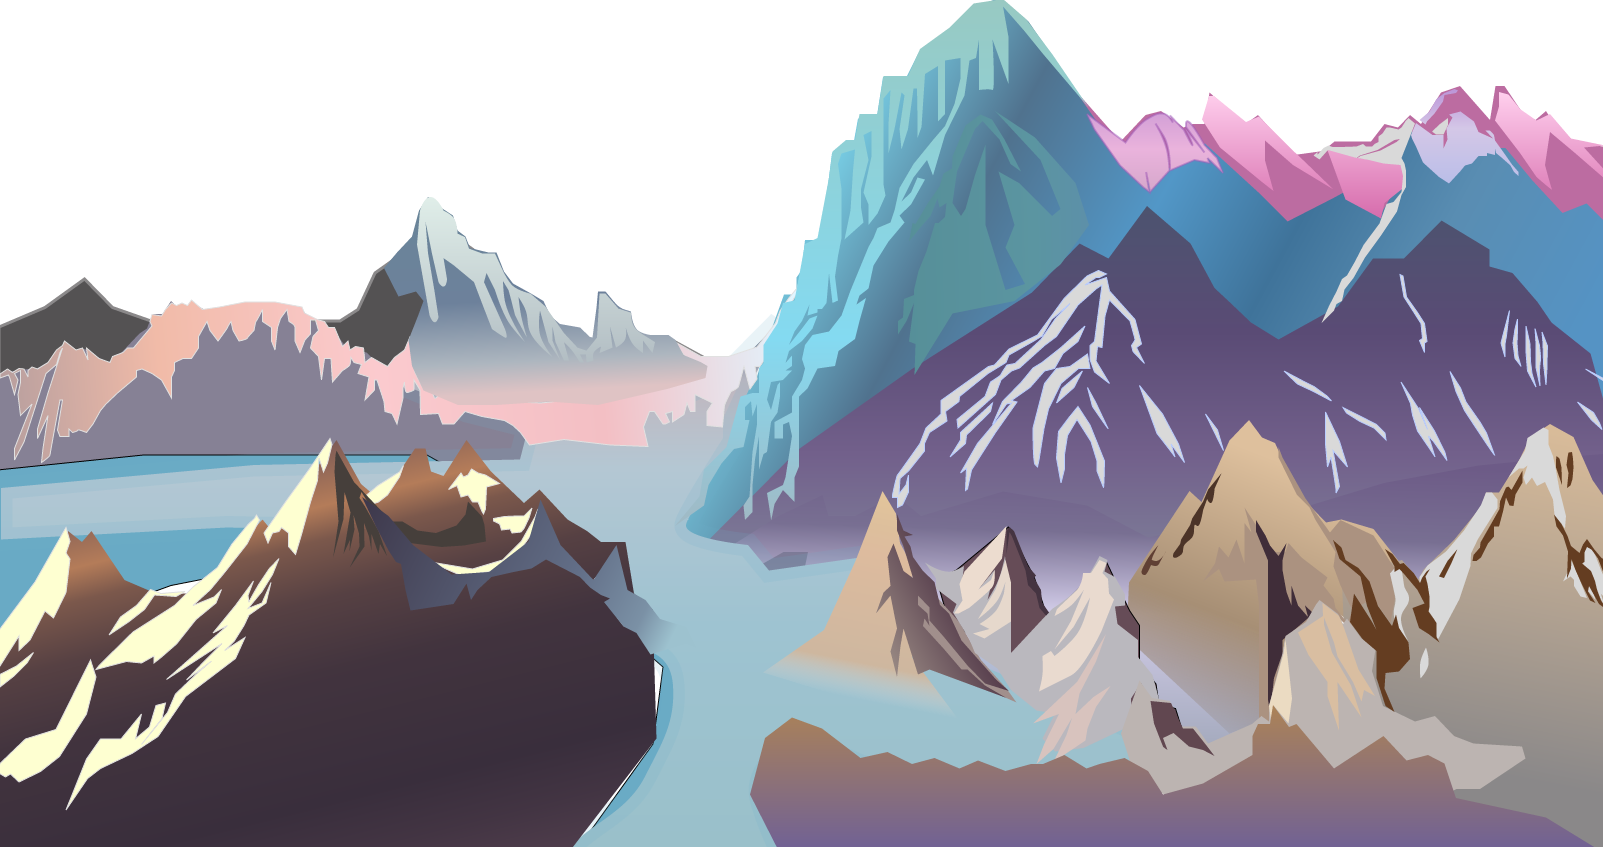
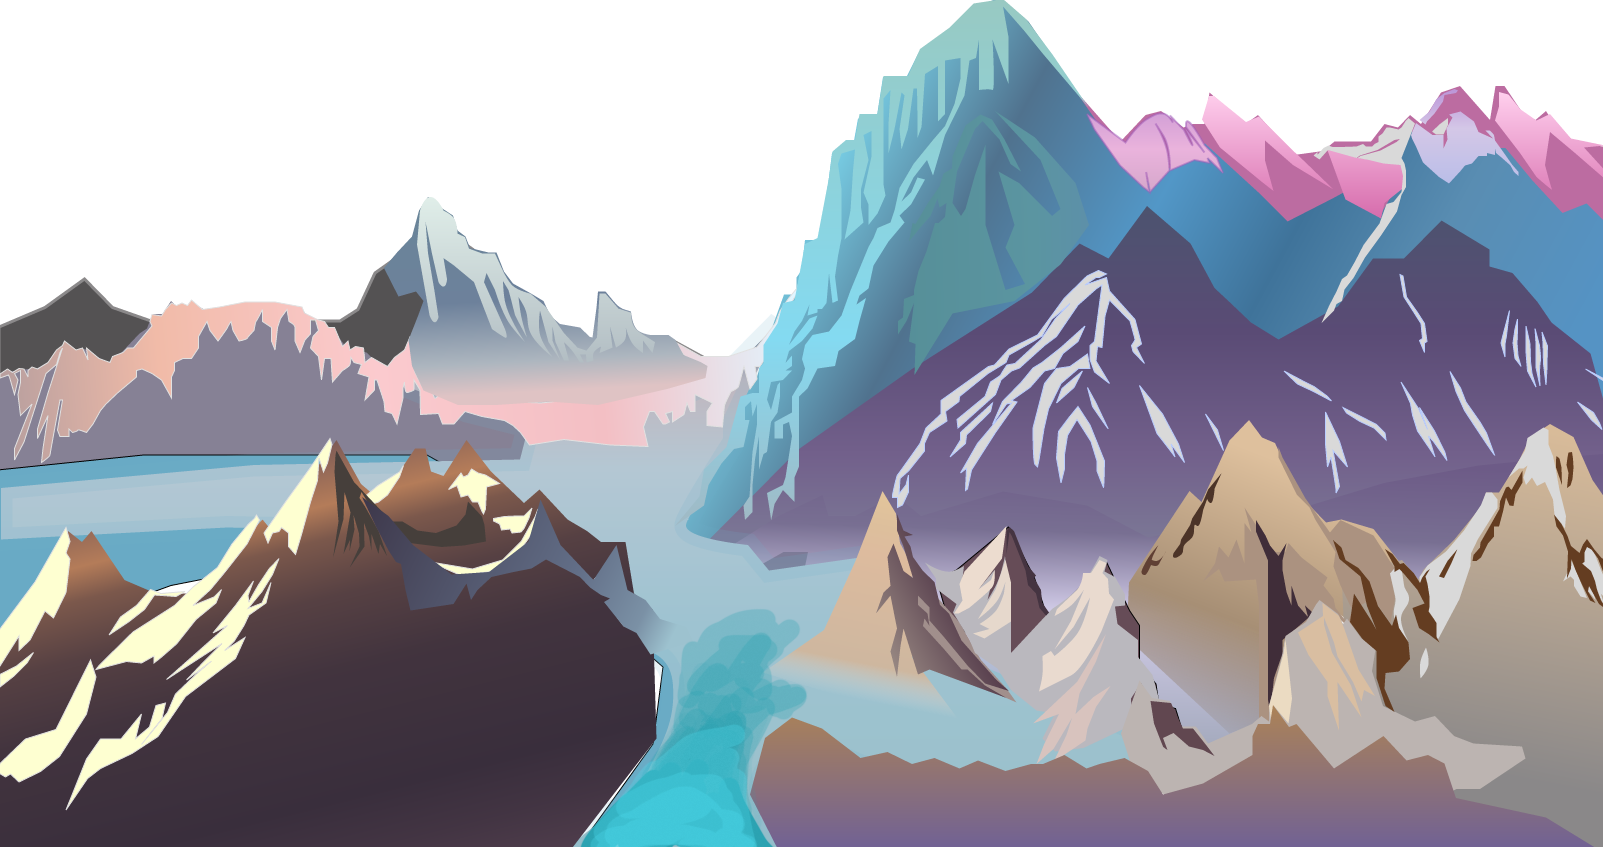
Fix mountain layer z-fighting; add layers 06-08 and observer readout
- FollowEffect: optional `targetBounds` clamps the followed target's position
  before the offset, so a group of followers stops rigidly at a bound
- Hero: camera-following mountain boxes (01/02) bounded so they never slide
  onto fixed layer 03 (stop at observer z 150, min gap 100) - this was the
  flicker at observer z ~220-250
- Unique z for every fixed layer panel (07 behind 08; mirrors 10 behind)
- Add layer-06 (tree), layer-07 (cliff house), layer-08 (waterfall land)
- Observer x/y/z readout label over the canvas
- Updated layer-02/03 artwork

Changed region(s): [[0.3431, 0.706, 0.4991, 1.0]]

diff --git a/src/docs/hero/hero_parallax.ts b/src/docs/hero/hero_parallax.ts
@@ -5,7 +5,7 @@ import { SceneClock } from "../../scene/scene_clock.ts";
 import { HeadTrackingDataProvider } from "../../scene/providers/head_tracking_data_provider.ts";
 import { WebCamDataProvider } from "../../scene/providers/web_cam_data_provider.ts";
 import { P5AssetLoader, type P5Bundler } from "../../scene/p5/p5_asset_loader.ts";
-import {DEFAULT_SCENE_SETTINGS, ELEMENT_TYPES, LOOK_MODES, type CarModifier, type Vector3, type DampingValue, type SceneUnits, type VideoPixels} from "../../scene/types.ts";
+import {DEFAULT_SCENE_SETTINGS, ELEMENT_TYPES, LOOK_MODES, STANDARD_PROJECTION_IDS, type CarModifier, type Vector3, type DampingValue, type SceneUnits, type VideoPixels} from "../../scene/types.ts";
 import { DEFAULT_SKETCH_CONFIG, type SketchConfig } from "../tutorial/sketch_config.ts";
 import type { FaceConfig, P5SketchExtraArgs } from "../tutorial/sketch_engine.types.ts";
 import { WorldSettings } from "../../scene/world_settings.ts";
@@ -331,6 +331,14 @@ export async function heroParallax(
     const mountainBackdropWidth = 4000;
     const mountainBackdropHeight = mountainBackdropWidth * mountainHeight / mountainWidth;
     const mountainBackdropDistance = -2500;
+    // Layers 01/02 follow the camera's z, but layer 03 sits at a fixed world z. Left
+    // unbounded, moving back (+z) slides layer 02 onto layer 03's plane (observer z ~250)
+    // and they z-fight. Bounding the followed camera z stops both following boxes - rigidly,
+    // walls included - at least mountainMinGap behind layer 03.
+    const mountainMinGap = 100;
+    const mountainFollowBounds = {
+        max: { z: mountainBackdropDistance * 0.8 - mountainBackdropDistance * 0.9 - mountainMinGap },
+    };
     world.addPanel({
         id: 'mountain-backdrop-01',
         type: ELEMENT_TYPES.PANEL,
@@ -341,7 +349,7 @@ export async function heroParallax(
         position: { x: 0, y: 0, z: mountainBackdropDistance },
         texture: { path: appAssetPath('img/hero/layer-01.png'), width: mountainWidth, height: mountainHeight },
         effects: [
-            { type: 'follow', settings: { follow: 'CAMERA' } },
+            { type: 'follow', settings: { follow: 'CAMERA', targetBounds: mountainFollowBounds } },
         ],
     });
     world.addPanel({
@@ -351,10 +359,10 @@ export async function heroParallax(
         alphaCutoff: 0.5,
         width: mountainBackdropWidth * 0.9,
         height: mountainBackdropHeight * 0.9,
-        position: { x: 0, y: 0, z: mountainBackdropDistance * 0.9 },
+        position: { x: 400, y: -400, z: mountainBackdropDistance * 0.9 },
         texture: { path: appAssetPath('img/hero/layer-02.png'), width: mountainWidth , height: mountainHeight },
         effects: [
-            { type: 'follow', settings: { follow: 'CAMERA' } },
+            { type: 'follow', settings: { follow: 'CAMERA', targetBounds: mountainFollowBounds } },
         ],
     });
 
@@ -388,7 +396,7 @@ export async function heroParallax(
         mirrorTextureHorizontal: false,
         texture: { path: appAssetPath('img/hero/layer-01.png'), width: mountainWidth, height: mountainHeight },
         effects: [
-            { type: 'follow', settings: { follow: 'CAMERA' } },
+            { type: 'follow', settings: { follow: 'CAMERA', targetBounds: mountainFollowBounds } },
         ],
     });
 
@@ -404,7 +412,7 @@ export async function heroParallax(
         mirrorTextureHorizontal: false,
         texture: { path: appAssetPath('img/hero/layer-02.png'), width: mountainWidth, height: mountainHeight },
         effects: [
-            { type: 'follow', settings: { follow: 'CAMERA' } },
+            { type: 'follow', settings: { follow: 'CAMERA', targetBounds: mountainFollowBounds } },
         ],
     });
 
@@ -420,7 +428,7 @@ export async function heroParallax(
         mirrorTextureHorizontal: false,
         texture: { path: appAssetPath('img/hero/layer-01.png'), width: mountainWidth, height: mountainHeight },
         effects: [
-            { type: 'follow', settings: { follow: 'CAMERA' } },
+            { type: 'follow', settings: { follow: 'CAMERA', targetBounds: mountainFollowBounds } },
         ],
     });
 
@@ -436,7 +444,7 @@ export async function heroParallax(
         mirrorTextureHorizontal: false,
         texture: { path: appAssetPath('img/hero/layer-02.png'), width: mountainWidth, height: mountainHeight },
         effects: [
-            { type: 'follow', settings: { follow: 'CAMERA' } },
+            { type: 'follow', settings: { follow: 'CAMERA', targetBounds: mountainFollowBounds } },
         ],
     });
 
@@ -454,7 +462,7 @@ export async function heroParallax(
         alphaCutoff: 0.5,
         width: mountainBackdropWidth * 0.8,
         height: mountainBackdropHeight * 0.8,
-        position: { x: -100, y: -200, z: mountainBackdropDistance * 0.8 },
+        position: { x: -100, y: -400, z: mountainBackdropDistance * 0.8 },
         texture: { path: appAssetPath('img/hero/layer-03.png'), width: layer03Width, height: layer03Height },
         effects: [
             { type: 'follow', settings: { follow: 'CAMERA', axis: { x: true, y: true, z: false } } },
@@ -513,7 +521,7 @@ export async function heroParallax(
         width: 696,
         height: 507,
         mirrorTextureHorizontal: true,
-        position: { x:  -350 - 696, y: 50, z: -800 },
+        position: { x:  -350 - 696, y: 50, z: -810 },
         texture: { path: appAssetPath('img/hero/layer-04.png'), width: 696, height: 507 },
     });
 
@@ -535,8 +543,49 @@ export async function heroParallax(
         width: 908,
         height: 565,
         mirrorTextureHorizontal: true,
-        position: { x: 550 + 908, y: 50, z: -1200 },
+        position: { x: 550 + 908, y: 50, z: -1210 },
         texture: { path: appAssetPath('img/hero/layer-05.png'), width: 908, height: 565 },
+    });
+
+    // Layer 06 - the tall tree: plain fixed panel at the image's own size, right of center
+    // and in front of the layer 04/05 land, as it stood in the original artwork.
+    world.addPanel({
+        id: 'layer-06',
+        type: ELEMENT_TYPES.PANEL,
+        fitMode: 'fill',
+        alphaCutoff: 0.5,
+        width: 221,
+        height: 813,
+        position: { x: 250, y: 180, z: -650 },
+        texture: { path: appAssetPath('img/hero/layer-06.png'), width: 221, height: 813 },
+    });
+
+    // Layers 07/08 - the nearest foreground pieces (in front of the tree), plain fixed panels
+    // at the images' own sizes, both resting on roughly the same ground line (bottom ~y 350):
+    // 07 is the dark cliff house on the left, 08 the waterfall land strip on the right.
+    // They overlap on screen, so they must NOT share a z: equal depths z-fight (flicker as
+    // the observer moves). 07 sits slightly behind, as the land was drawn over the house
+    // in the original artwork.
+    world.addPanel({
+        id: 'layer-07',
+        type: ELEMENT_TYPES.PANEL,
+        fitMode: 'fill',
+        alphaCutoff: 0.5,
+        width: 674,
+        height: 594,
+        position: { x: -250, y: 50, z: -420 },
+        texture: { path: appAssetPath('img/hero/layer-07.png'), width: 674, height: 594 },
+    });
+
+    world.addPanel({
+        id: 'layer-08',
+        type: ELEMENT_TYPES.PANEL,
+        fitMode: 'fill',
+        alphaCutoff: 0.5,
+        width: 872,
+        height: 302,
+        position: { x: 300, y: 200, z: -400 },
+        texture: { path: appAssetPath('img/hero/layer-08.png'), width: 872, height: 302 },
     });
 
     world.addBox({
@@ -635,7 +684,22 @@ export async function heroParallax(
         if (gp) {
             const result = await world.step(gp);
             if (!result.running) return;
+            announceObserver();
         }
+    };
+
+    // Debug readout: report the observer's (eye's) global position to the page, which
+    // shows it in the title. Only fires when the rounded position actually changes.
+    let lastObserverKey = '';
+    const announceObserver = () => {
+        const eye = world.getCurrenState()?.projections.get(STANDARD_PROJECTION_IDS.EYE);
+        if (!eye) return;
+        const position = eye.globalPosition ?? eye.position;
+        const observer = { x: Math.round(position.x), y: Math.round(position.y), z: Math.round(position.z) };
+        const key = `${observer.x},${observer.y},${observer.z}`;
+        if (key === lastObserverKey) return;
+        lastObserverKey = key;
+        canvasElement?.dispatchEvent(new CustomEvent('observerchange', { detail: observer, bubbles: true }));
     };
 
     try {

diff --git a/src/scene/effects/follow_effect.test.ts b/src/scene/effects/follow_effect.test.ts
@@ -142,6 +142,46 @@ describe('FollowEffect', () => {
 
             expect(result.position?.z).toBeCloseTo(-100);
         });
+
+        describe('targetBounds', () => {
+            const withCameraAt = (position: { x: number; y: number; z: number }) =>
+                createContext({ [STANDARD_PROJECTION_IDS.EYE]: { position } });
+
+            it('follows normally while the camera is inside the bounds', () => {
+                const settings = { follow: 'CAMERA', enabled: true, targetBounds: { max: { z: 150 } } };
+
+                const result = FollowEffect.apply(createElement({ x: 0, y: 0, z: -2250 }), withCameraAt({ x: 5, y: 6, z: 100 }), settings, {});
+
+                expect(result.position).toEqual({ x: 5, y: 6, z: -2150 });
+            });
+
+            it('stops following past a max bound, holding the element at the bound', () => {
+                const settings = { follow: 'CAMERA', enabled: true, targetBounds: { max: { z: 150 } } };
+
+                const result = FollowEffect.apply(createElement({ x: 0, y: 0, z: -2250 }), withCameraAt({ x: 5, y: 6, z: 250 }), settings, {});
+
+                // Without the bound this would be z -2000 - colliding with a fixed layer there.
+                expect(result.position).toEqual({ x: 5, y: 6, z: -2100 });
+            });
+
+            it('clamps against min bounds per axis, leaving unbounded axes alone', () => {
+                const settings = { follow: 'CAMERA', enabled: true, targetBounds: { min: { x: -10, z: -50 } } };
+
+                const result = FollowEffect.apply(createElement({ x: 0, y: 0, z: 0 }), withCameraAt({ x: -40, y: -999, z: -80 }), settings, {});
+
+                expect(result.position).toEqual({ x: -10, y: -999, z: -50 });
+            });
+
+            it('keeps a group sharing the same bounds rigid (same clamped target for every member)', () => {
+                const settings = { follow: 'CAMERA', enabled: true, targetBounds: { max: { z: 150 } } };
+                const context = withCameraAt({ x: 0, y: 0, z: 400 });
+
+                const backdrop = FollowEffect.apply(createElement({ x: 0, y: 0, z: -2250 }), context, settings, {});
+                const wall = FollowEffect.apply(createElement({ x: -2700, y: 0, z: -1300 }), context, settings, {});
+
+                expect(wall.position.z - backdrop.position.z).toBe(950);
+            });
+        });
     });
 
     describe('follow: element by ID', () => {

diff --git a/src/scene/effects/follow_effect.ts b/src/scene/effects/follow_effect.ts
@@ -27,6 +27,16 @@ export interface FollowEffectConfig extends BaseModifierSettings {
      * - e.g. a floor that reads as "ahead and below" wherever the camera looks.
      */
     readonly followRotation?: boolean;
+    /**
+     * World-space bounds clamped onto the followed target's position before the offset is
+     * added, per axis. Every element sharing the same bounds moves as one rigid group, and
+     * stops following once the target leaves the bounds - e.g. keeping camera-following
+     * backdrops from ever reaching (and z-fighting with) fixed layers in front of them.
+     */
+    readonly targetBounds?: {
+        readonly min?: Partial<Vector3>;
+        readonly max?: Partial<Vector3>;
+    };
     follow: string;
 }
 
@@ -42,6 +52,17 @@ export const FollowDefaultConfig: FollowEffectConfig = {
     follow: 'CAMERA',
 }
 
+function clampToBounds(position: Vector3, bounds: FollowEffectConfig['targetBounds']): Vector3 {
+    if (!bounds) return position;
+    const clamp = (value: number, min?: number, max?: number) =>
+        Math.min(max ?? Infinity, Math.max(min ?? -Infinity, value));
+    return {
+        x: clamp(position.x, bounds.min?.x, bounds.max?.x),
+        y: clamp(position.y, bounds.min?.y, bounds.max?.y),
+        z: clamp(position.z, bounds.min?.z, bounds.max?.z),
+    };
+}
+
 function computeFollowPosition(
     current: ResolvedBaseVisual,
     targetPosition: Vector3,
@@ -49,6 +70,7 @@ function computeFollowPosition(
     targetRotation?: Rotation3,
 ): Partial<ResolvedBaseVisual> {
     const axis = settings.axis ?? FollowDefaultConfig.axis;
+    targetPosition = clampToBounds(targetPosition, settings.targetBounds);
     const offset = settings.offset ?? FollowDefaultConfig.offset ?? { x: 0, y: 0, z: 0 };
 
     // current.position is treated as a fixed local offset from the followed target.

diff --git a/src/docs/hero/hero.demo.ts b/src/docs/hero/hero.demo.ts
@@ -96,10 +96,14 @@ export async function renderStep(
         paused: false 
     };
     
+    // Debug readout: the scene reports the observer's (eye's) position; show it in a small
+    // label over the canvas. Re-attached on each update in case a sketch reset clears the box.
+    const observerReadout = document.createElement('div');
+    observerReadout.className = 'observer-readout';
     canvasBox.addEventListener('observerchange', event => {
-        const { closeness } = (event as CustomEvent<{ closeness: number }>).detail;
-        const shade = Math.round(closeness * 255);
-        canvasBox.style.borderColor = `rgb(${shade}, ${shade}, ${shade})`;
+        const { x, y, z } = (event as CustomEvent<{ x: number; y: number; z: number }>).detail;
+        if (!observerReadout.isConnected) canvasBox.appendChild(observerReadout);
+        observerReadout.textContent = `observer  x ${x}  y ${y}  z ${z}`;
     });
 
     let { currentP5 } = await sketchEngine.createSketchInstance(

diff --git a/src/docs/hero/hero_parallax.css b/src/docs/hero/hero_parallax.css
@@ -38,3 +38,19 @@
     width: min(100vw, calc(100dvh * 1.25019)) !important;
     height: min(100dvh, calc(100vw / 1.25019)) !important;
 }
+
+/* Debug readout of the observer position, pinned over the canvas's top-left corner. */
+.hero-parallax-page .canvas-box { position: relative; }
+.hero-parallax-page .observer-readout {
+    position: absolute;
+    top: 8px;
+    left: 8px;
+    z-index: 2;
+    padding: 4px 8px;
+    border-radius: 4px;
+    background: rgba(0, 0, 0, 0.65);
+    color: #fff;
+    font: 600 14px/1.2 ui-monospace, SFMono-Regular, Menlo, monospace;
+    white-space: pre;
+    pointer-events: none;
+}
